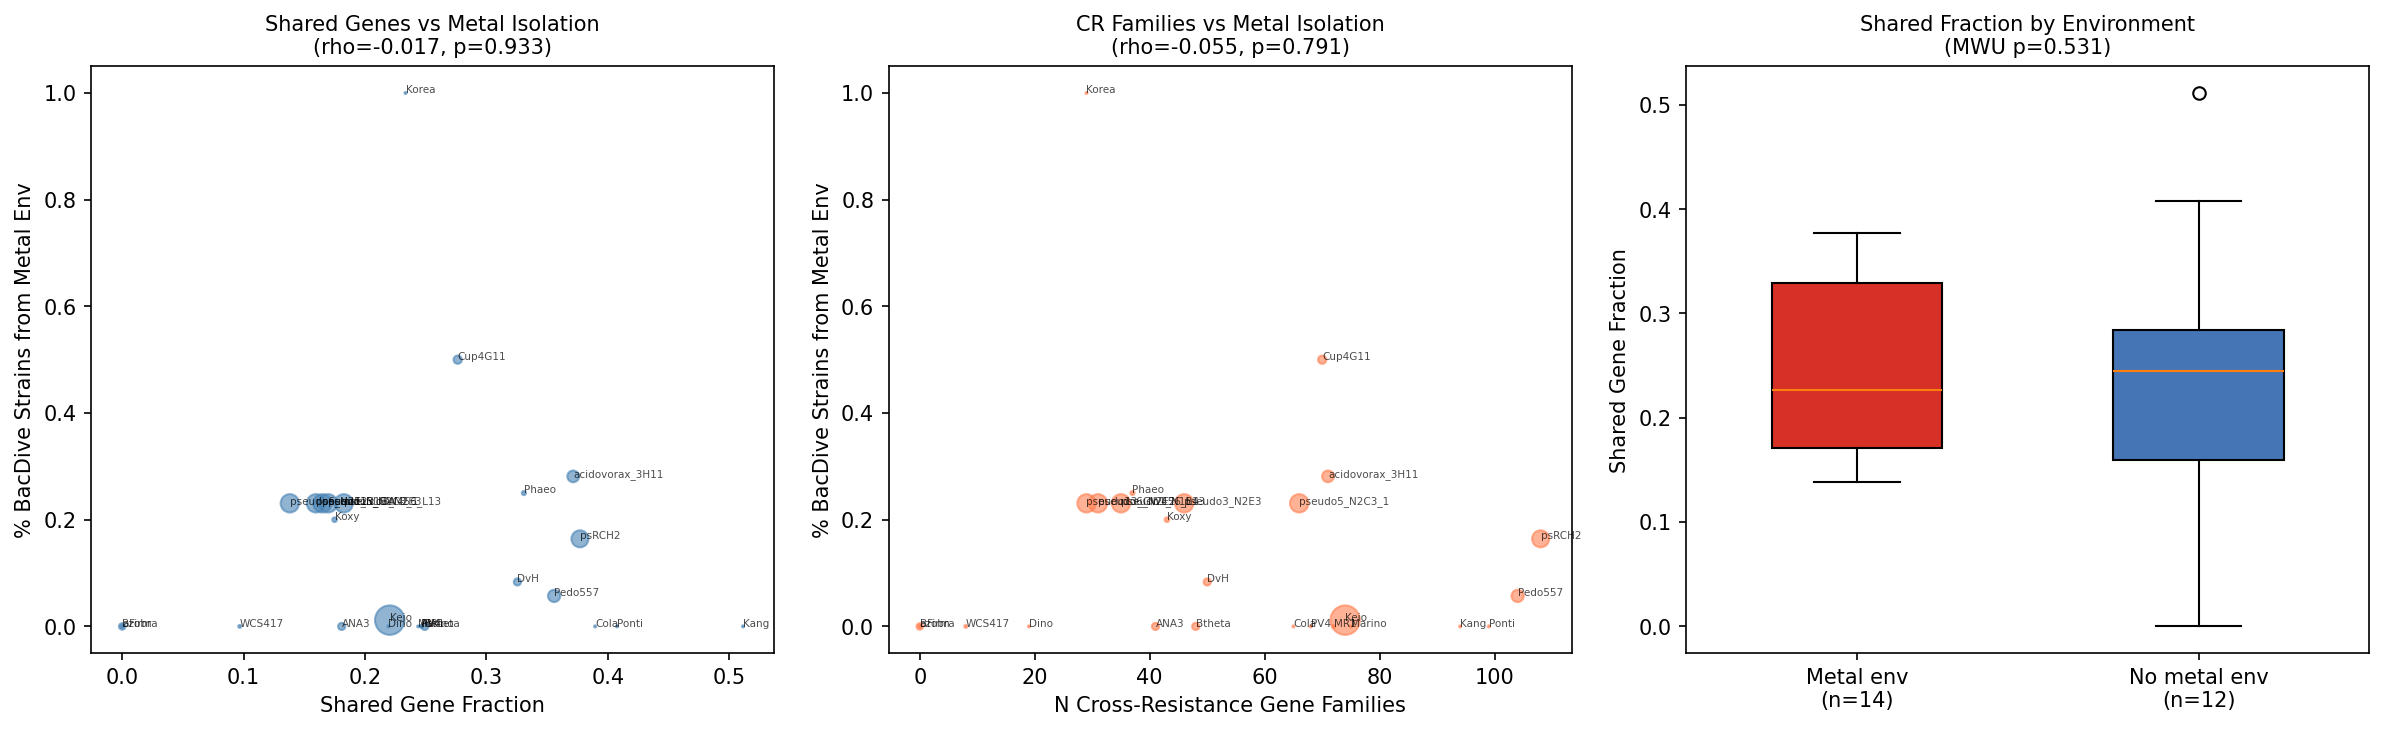
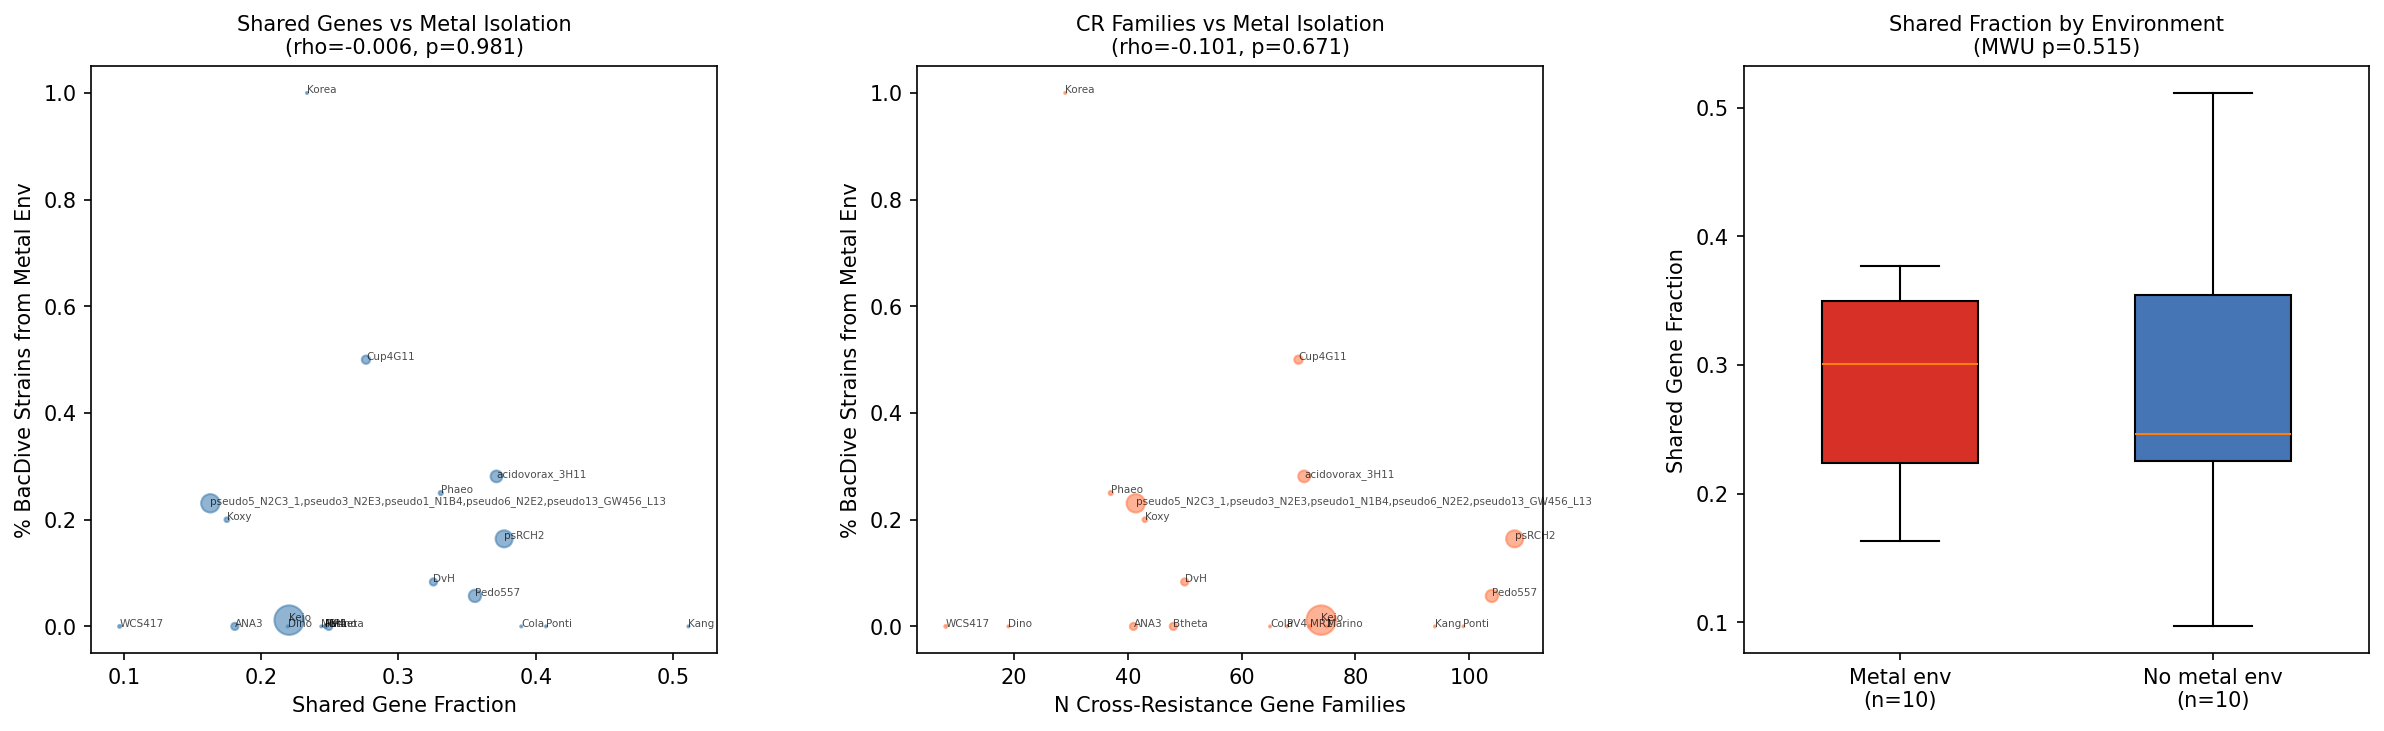
fix: address all 5 codex review issues
1. Critical: Exclude unscored organisms (azobra, BFirm) from H3 validation
2. Critical: Collapse Pseudomonas strains to species level for BacDive independence
3. Important: Harmonize general_stress definition (non-metal sick rate >= 50%)
4. Important: Fix NB03 scatter plot — look up metals directly in consensus matrix
5. Nice-to-have: Reconcile counts (452 exps, 14 metals, 28 analyzed organisms)

diff --git a/projects/metal_cross_resistance/REVIEW_1.md b/projects/metal_cross_resistance/REVIEW_1.md
@@ -1,0 +1,40 @@
+---
+reviewer: BERIL Automated Review (Codex, gpt-5.4)
+date: 2026-04-27
+project: metal_cross_resistance
+---
+
+# Review: Gene-Resolution Metal Cross-Resistance Across Diverse Bacteria
+
+## Summary
+This is a strong, well-documented analysis project with a clear research question, a sensible notebook progression, saved notebook outputs, substantial generated data, and figures that cover the main result areas. H1 and H2 are generally well supported by the materials provided. The main weakness is the H3 validation workflow: the BacDive comparison mixes in organisms that were never scored for cross-resistance, reuses the same species-level BacDive evidence across multiple FB strains, and relies on broad string matching, so the reported null result should be treated as provisional rather than a clean test.
+
+## Methodology
+The project states a testable question in [README.md](/home/psdehal/BERIL-research-observatory/projects/metal_cross_resistance/README.md:3) and expands it into explicit hypotheses in [RESEARCH_PLAN.md](/home/psdehal/BERIL-research-observatory/projects/metal_cross_resistance/RESEARCH_PLAN.md:3). The overall workflow is logical: NB01 extracts per-organism metal fitness matrices, NB02-NB03 test conservation, NB04 classifies gene tiers, and NB05 attempts validation. Reproducibility is better than average for this repository: the README has a real `## Reproduction` section with Spark/local separation, `requirements.txt` is present, all five notebooks have saved outputs, and the project ships 73 data files plus 11 figures. The main reproducibility gap is not missing artifacts but method drift: the implemented H2 and H3 procedures do not fully match the plan/write-up, which makes it harder for a reader to know which definition should be trusted.
+
+## Code Quality
+Notebook organization is good overall, and the implementation reflects several known BERDL pitfalls correctly, especially casting Fitness Browser string fields to numeric in NB01 and NB04. I found four concrete issues.
+
+First, the H3 validation cohort is inconsistent. NB05 cell 6 iterates over every organism in `extraction_summary.csv`, but NB04 only classifies organisms with `n_metals >= 3`, so `azobra` and `BFirm` enter `data/bacdive_metal_environment.csv` with zero-valued scores even though they were never analyzed for cross-resistance tiers. This directly affects the headline `n = 26` null result reported in [REPORT.md](/home/psdehal/BERIL-research-observatory/projects/metal_cross_resistance/REPORT.md:82). Excluding those two rows changes the shared-fraction correlation from rho = -0.02 to rho = -0.17, so the conclusion remains null but the reported statistic is not based on a consistent analysis set. References: `05_pangenome_prediction.ipynb` cells 6, 9, 10; `data/bacdive_metal_environment.csv`.
+
+Second, the BacDive validation is not independent at the FB-strain level. In `05_pangenome_prediction.ipynb` cell 9, matching is done at genus/species string level, then several distinct FB strains inherit the same BacDive species pool. In the saved output, the five `Pseudomonas fluorescens` strains (`pseudo1_N1B4`, `pseudo3_N2E3`, `pseudo5_N2C3_1`, `pseudo6_N2E2`, `pseudo13_GW456_L13`) all receive identical `n_bacdive_strains`, `n_metal_env`, and `pct_metal_env` values. That duplicates the same environmental evidence across multiple rows and weakens the statistical interpretation of the H3 test. References: `05_pangenome_prediction.ipynb` cells 8-10; `data/bacdive_metal_environment.csv`.
+
+Third, the implemented definition of `general_stress` does not match the research plan. The plan defines it as important in at least 50% of all conditions, metal plus non-metal, but `04_shared_vs_specific_genes.ipynb` cell 4 classifies it solely by `sick_rate_nonmetal >= 0.50`. That may be a reasonable operational definition, but it is a different one, and it affects the H2 tier counts and enrichment claims in [REPORT.md](/home/psdehal/BERIL-research-observatory/projects/metal_cross_resistance/REPORT.md:54). References: [RESEARCH_PLAN.md](/home/psdehal/BERIL-research-observatory/projects/metal_cross_resistance/RESEARCH_PLAN.md:149), `04_shared_vs_specific_genes.ipynb` cell 4.
+
+Fourth, NB03 contains a plotting bug in the `consensus_vs_individual` figure logic. In cell 8, the condition `if pair_key in consensus.index` can never be true because `consensus.index` contains metal names, not pair names, so the pooled scatter data are not assembled as intended. This does not invalidate the LOO table saved in `data/loo_consensus_prediction.csv`, but it does weaken one of the supporting visualizations listed in [REPORT.md](/home/psdehal/BERIL-research-observatory/projects/metal_cross_resistance/REPORT.md:198). Reference: `03_cross_resistance_conservation.ipynb` cell 8.
+
+## Findings Assessment
+The core H1 conclusion is supported by the saved outputs: the cross-resistance matrices, pairwise summaries, Mantel results, and leave-one-out table all point in the same qualitative direction. H2 is also reasonably supported, but the reader should be told more explicitly that the implemented tier definition differs from the plan. H3 is the weakest part: the report appropriately calls it inconclusive, but the exact null statistic should not be overinterpreted because the validation table mixes unmatched cohort definitions and duplicated species-level metadata. The visual coverage is strong overall, with 11 figures across the major stages, but documentation consistency needs work: [README.md](/home/psdehal/BERIL-research-observatory/projects/metal_cross_resistance/README.md:10) and [README.md](/home/psdehal/BERIL-research-observatory/projects/metal_cross_resistance/README.md:17) still describe 30 organisms, 422 experiments, and 13 metals, while [REPORT.md](/home/psdehal/BERIL-research-observatory/projects/metal_cross_resistance/REPORT.md:92) reports 452 experiments and 14 metals.
+
+## Suggestions
+1. Critical: Rebuild the H3 validation table using only organisms that actually received cross-resistance/tier scores, and update the reported `n` and correlation statistics accordingly.
+2. Critical: Avoid treating multiple FB strains from the same species as independent BacDive validations when they share the same species-level BacDive pool; collapse to species level or use strain-resolved matching if available.
+3. Important: Harmonize the `general_stress` definition across `RESEARCH_PLAN.md`, NB04, and `REPORT.md`, or explicitly justify the implemented non-metal-only rule and restate H2 using that definition.
+4. Important: Fix the NB03 cell-8 scatterplot logic so `figures/consensus_vs_individual.png` actually visualizes the pooled consensus-versus-observed comparison.
+5. Nice-to-have: Reconcile the project summary numbers across README and REPORT so experiment counts, metal counts, and analyzed-organism counts are consistent everywhere.
+
+## Review Metadata
+- **Reviewer**: BERIL Automated Review (Codex, gpt-5.4)
+- **Date**: 2026-04-27
+- **Scope**: README.md, 5 notebooks, 73 data files, 11 figures
+- **Note**: This review was generated by an AI system. It should be treated as advisory input, not a definitive assessment.

diff --git a/projects/metal_cross_resistance/README.md b/projects/metal_cross_resistance/README.md
@@ -7,14 +7,14 @@ Is the genetic architecture of metal cross-resistance conserved across phylogene
 Complete — see [Report](REPORT.md) for findings. H1 (conservation) strongly supported, H2 (core gradient) supported, H3 (BacDive) inconclusive at FB scale.
 
 ## Overview
-The literature treats metal cross-resistance as a binary property of strains (e.g., "Co-Ni cross-resistant"), inferred from MIC assays on a handful of model organisms. We have genome-wide RB-TnSeq fitness data across 30 organisms and up to 13 metals — enabling the first gene-resolution cross-resistance analysis. For each organism, we correlate gene fitness profiles between all metal pairs to build a metal × metal cross-resistance matrix, then test whether these matrices are conserved across organisms (universal chemistry) or rewired per species (organism-specific). We decompose genes into a three-tier architecture (general stress > metal-shared > metal-specific) and predict that shared genes are more core in the pangenome. Finally, we use conserved cross-resistance signatures to predict multi-metal tolerance across 27K species and validate against BacDive isolation environments.
+The literature treats metal cross-resistance as a binary property of strains (e.g., "Co-Ni cross-resistant"), inferred from MIC assays on a handful of model organisms. We have genome-wide RB-TnSeq fitness data across 28 organisms and up to 14 metals — enabling the first gene-resolution cross-resistance analysis. For each organism, we correlate gene fitness profiles between all metal pairs to build a metal × metal cross-resistance matrix, then test whether these matrices are conserved across organisms (universal chemistry) or rewired per species (organism-specific). We decompose genes into a three-tier architecture (general stress > metal-shared > metal-specific) and predict that shared genes are more core in the pangenome. Finally, we use conserved cross-resistance signatures to predict multi-metal tolerance across 27K species and validate against BacDive isolation environments.
 
 ## Quick Links
 - [Research Plan](RESEARCH_PLAN.md) — hypotheses, approach, query strategy
 - [Report](REPORT.md) — findings, interpretation, supporting evidence
 
 ## Data Sources
-- **Fitness Browser**: 422 metal experiments, 37 organisms, 13 metals (Al, Cd, Co, Cr, Cu, Fe, Hg, Mn, Mo, Ni, Se, U, W, Zn)
+- **Fitness Browser** (`kescience_fitnessbrowser`): 452 metal experiments, 37 organisms, 14 metals (Al, Cd, Co, Cr, Cu, Fe, Hg, Mn, Mo, Ni, Se, U, W, Zn); 28 organisms with ≥3 metals analyzed
 - **Metal Fitness Atlas** (this observatory): metal-important gene lists, conserved metal families
 - **Metal Specificity** (this observatory): metal-specific vs pleiotropic gene classification
 - **Counter Ion Effects** (this observatory): DvH metal-NaCl correlation hierarchy

diff --git a/projects/metal_cross_resistance/RESEARCH_PLAN.md b/projects/metal_cross_resistance/RESEARCH_PLAN.md
@@ -128,9 +128,9 @@ GROUP BY gf.locusId, e.metal_type
 - **Goal**: For each gene, classify as general-stress / metal-shared / metal-specific based on fitness profiles. Test whether shared genes are more core than specific genes.
 - **Key analysis**:
   - Three-tier classification per gene:
-    - **General stress**: Important (fit < -1) in ≥50% of all conditions (metal + non-metal)
-    - **Metal-shared**: Important in ≥2 metals, <50% of non-metal conditions
-    - **Metal-specific**: Important in exactly 1 metal, <50% of non-metal conditions
+    - **General stress**: Important (fit < -1) in ≥1 metal AND sick rate ≥ 50% across non-metal experiments (pleiotropic)
+    - **Metal-shared**: Important in ≥2 metals, sick rate < 50% in non-metal experiments
+    - **Metal-specific**: Important in exactly 1 metal, sick rate < 50% in non-metal experiments
   - Map genes to pangenome core/accessory via ortholog groups (from essential_genome)
   - Test H2: core enrichment gradient — general > metal-shared > metal-specific
   - Identify the genes driving cross-resistance (metal-shared) — functional enrichment via COG/KEGG
